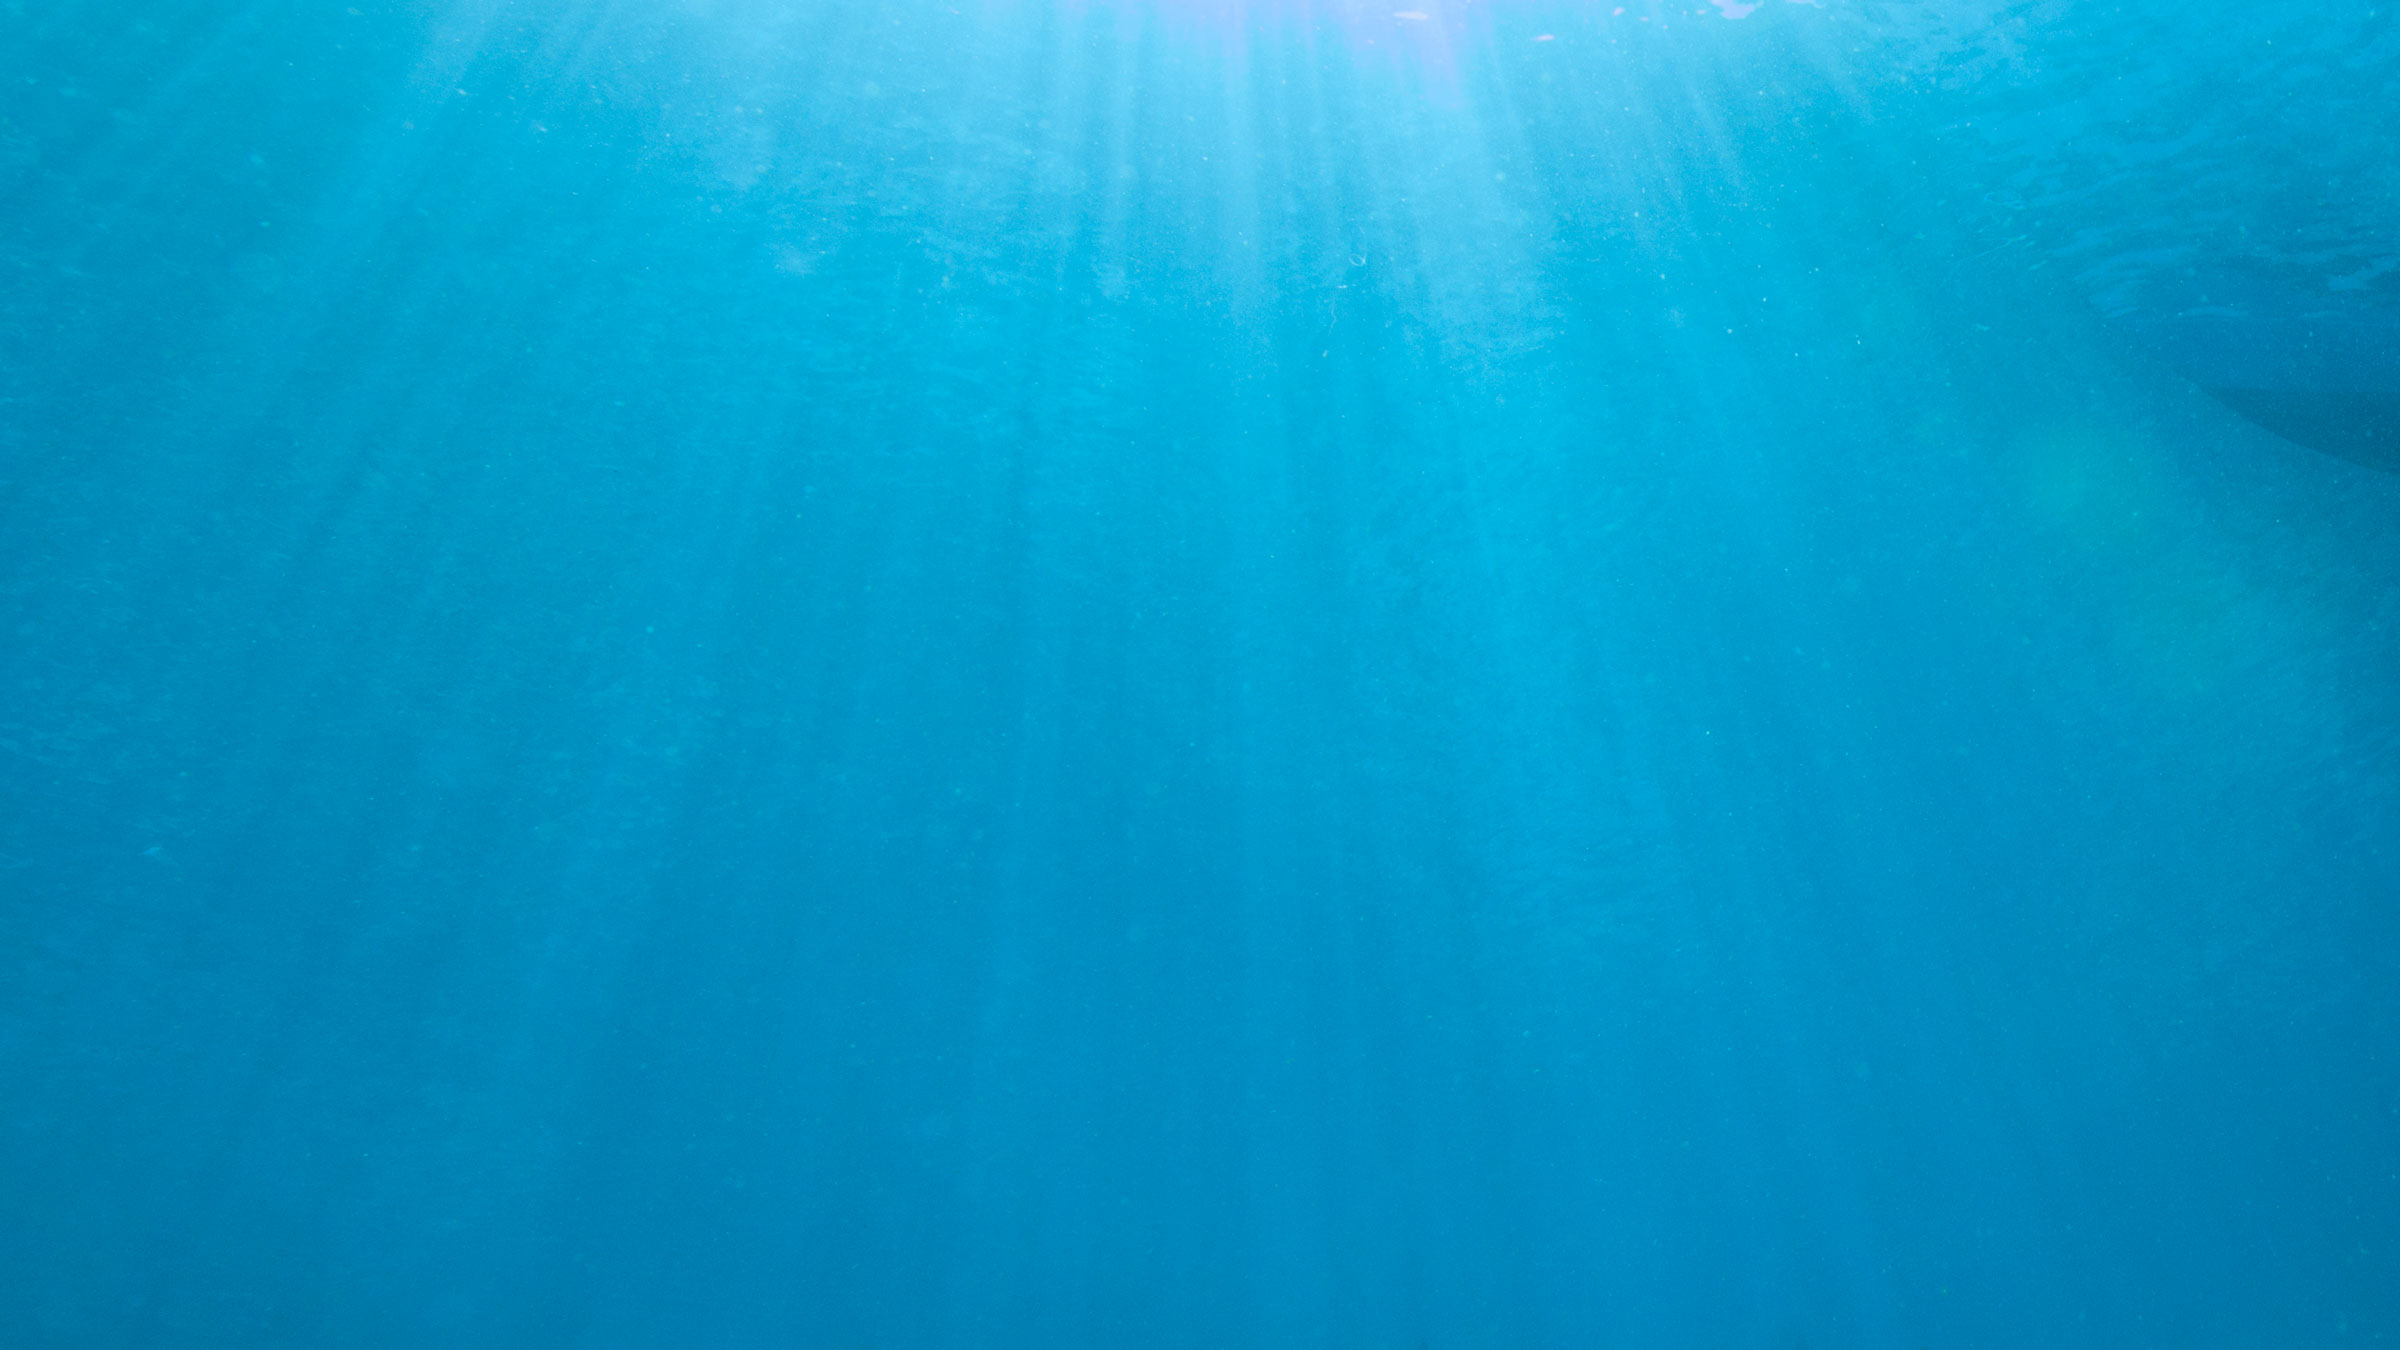
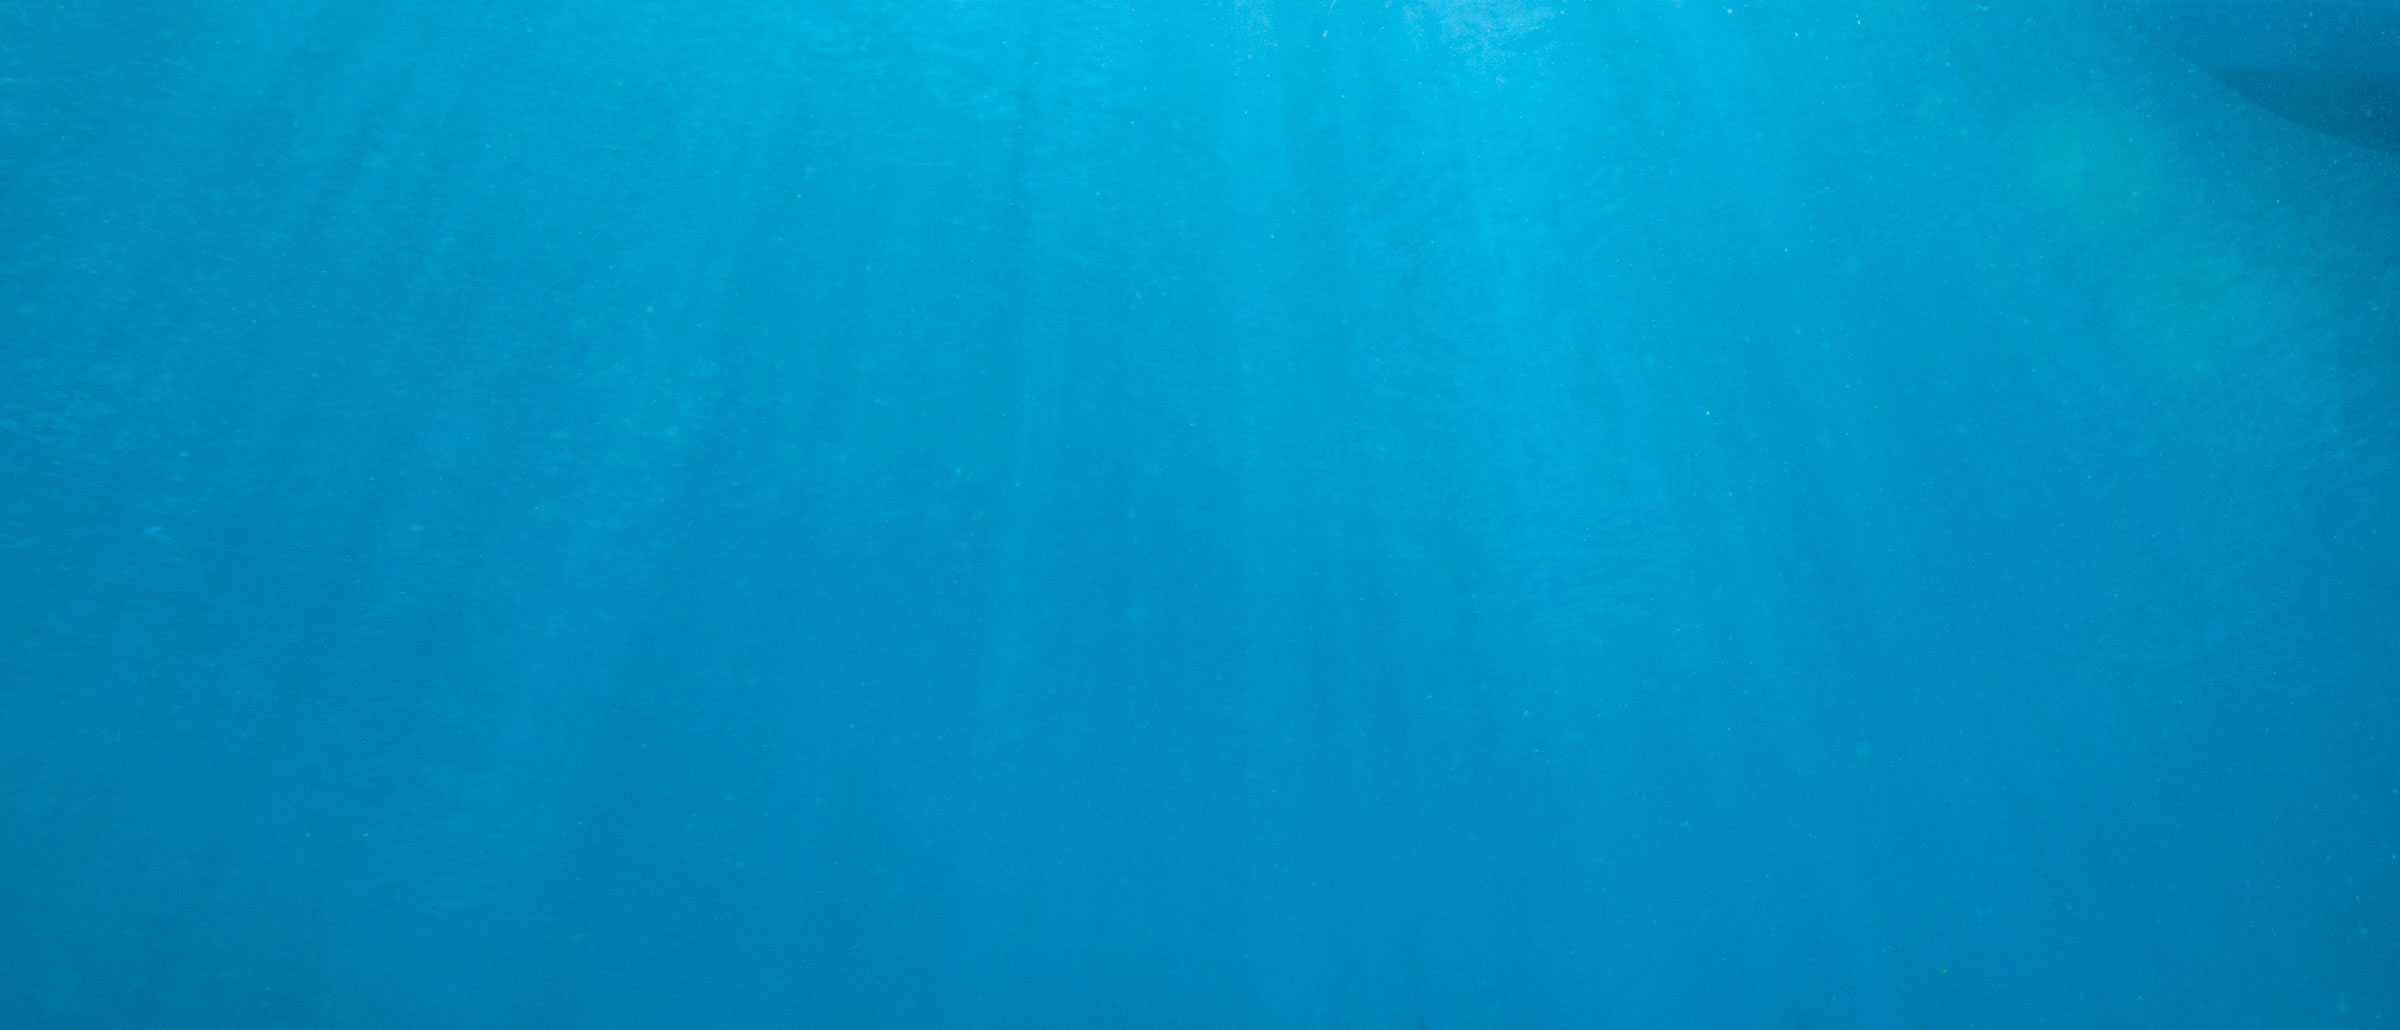
added particles and fixed mobile responsiveness

Changed region(s): [[0.1562, 0.0, 1.0, 0.3417], [0.9062, 0.2485, 1.0, 0.3417], [0.125, 0.1243, 0.1562, 0.1553]]

diff --git a/assets/js/particles-network.js b/assets/js/particles-network.js
@@ -1,40 +1,34 @@
 document.addEventListener("DOMContentLoaded", function(event) {
   particlesJS("main", {
     particles: {
-      number: { value: 80, density: { enable: true, value_area: 800 } },
+      number: { value: 40, density: { enable: true, value_area: 500 } },
       color: { value: "#ffffff" },
       shape: {
-        type: "circle",
-        stroke: { width: 0, color: "#000000" },
-        polygon: { nb_sides: 5 },
-        image: { src: "img/github.svg", width: 100, height: 100 }
+        type: "circle"
       },
       opacity: {
         value: 0.5,
-        random: false,
-        anim: { enable: false, speed: 1, opacity_min: 0.1, sync: false }
+        random: true,
+        anim: { enable: true, speed: 0.2, opacity_min: 0.1, sync: false }
       },
       size: {
         value: 3,
-        random: true,
-        anim: { enable: false, speed: 40, size_min: 0.1, sync: false }
+        random: true
       },
       line_linked: {
         enable: true,
-        distance: 150,
+        distance: 200,
         color: "#ffffff",
-        opacity: 0.4,
-        width: 1
+        opacity: 0.6,
+        width: 1.5
       },
       move: {
         enable: true,
-        speed: 3,
+        speed: 0.5,
         direction: "none",
-        random: false,
+        random: true,
         straight: false,
-        out_mode: "out",
-        bounce: false,
-        attract: { enable: false, rotateX: 600, rotateY: 1200 }
+        out_mode: "out"
       }
     },
     interactivity: {
@@ -46,19 +40,16 @@ document.addEventListener("DOMContentLoaded", function(event) {
       },
       modes: {
         grab: {
-          distance: 158.35505639876231,
-          line_linked: { opacity: 0.20565637287968297 }
+          distance: 160,
+          line_linked: { opacity: 0.5 }
         },
         bubble: {
-          distance: 121.81158184520176,
-          size: 12.181158184520177,
+          distance: 120,
+          size: 6,
           duration: 2,
-          opacity: 0.6334202255950492,
+          opacity: 0.7,
           speed: 3
-        },
-        repulse: { distance: 200, duration: 0.4 },
-        push: { particles_nb: 4 },
-        remove: { particles_nb: 2 }
+        }
       }
     },
     retina_detect: true

diff --git a/_sass/layouts/_index.scss b/_sass/layouts/_index.scss
@@ -4,10 +4,10 @@
   margin: 0;
 }
 .call-out {
-    @extend %padding-medium;
+    // @extend %padding-medium;
     display: inline-block;
     width: 100%;
-    height: 100%;
+    height: 35vh;
     font-size: 1.2em;
     text-align: center;
     color: $header-desc-text-color;
@@ -16,8 +16,14 @@
     position: relative;
 
     /* --- Responsive --- */
-    @media screen and (max-width: 850px) {
+    @media screen and (max-width: 820px) {
         background-size: 100% auto;
+        height: 25vh;
+    }
+
+    @media screen and (max-width: 600px) {
+        background-size: 100% auto;
+        height: 17vh;
     }
 
     p:last-child {
@@ -104,10 +110,12 @@
 .header-text{
     position: absolute;
     top: 0;
-    width: 100%;
     left: 0;
+    width: 100%;
+    pointer-events: none;
+
 }
 
 .header-text h1{
-    margin-top: 10%
+    margin-top: 5%
 }
